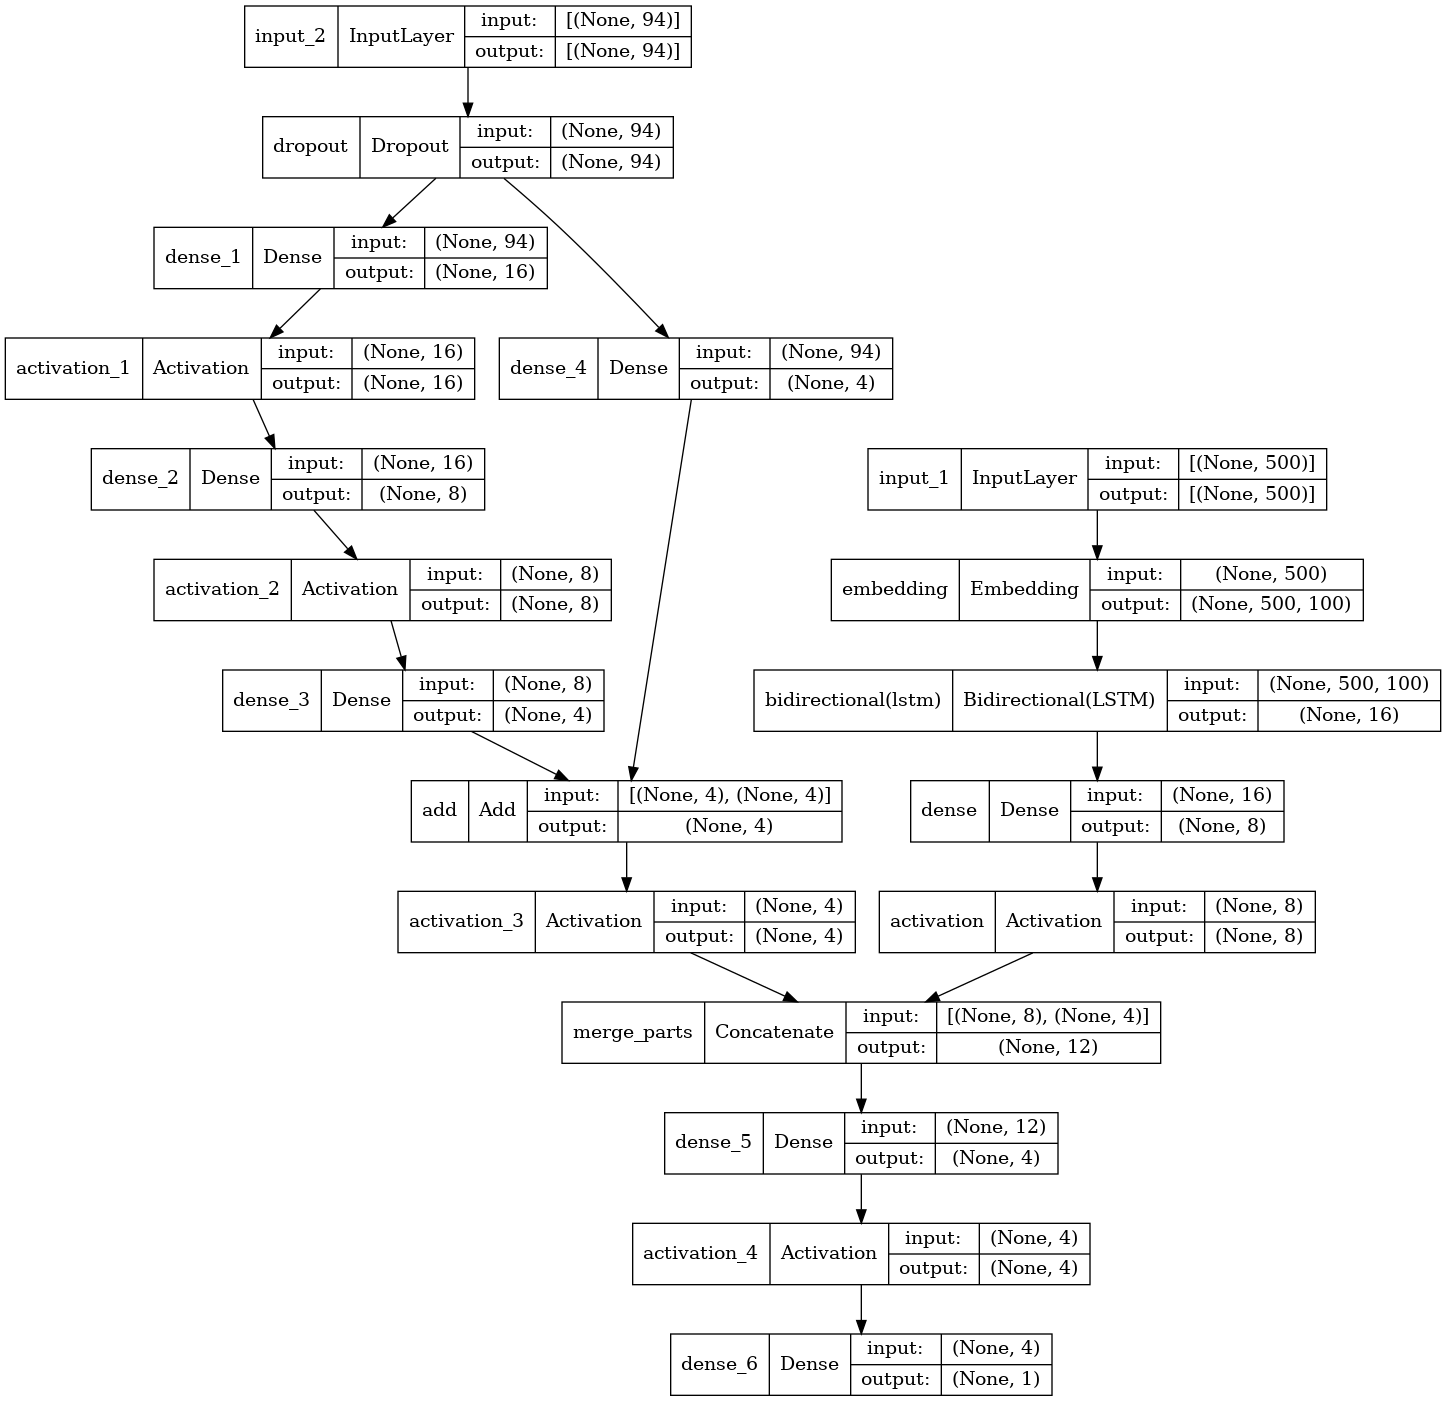
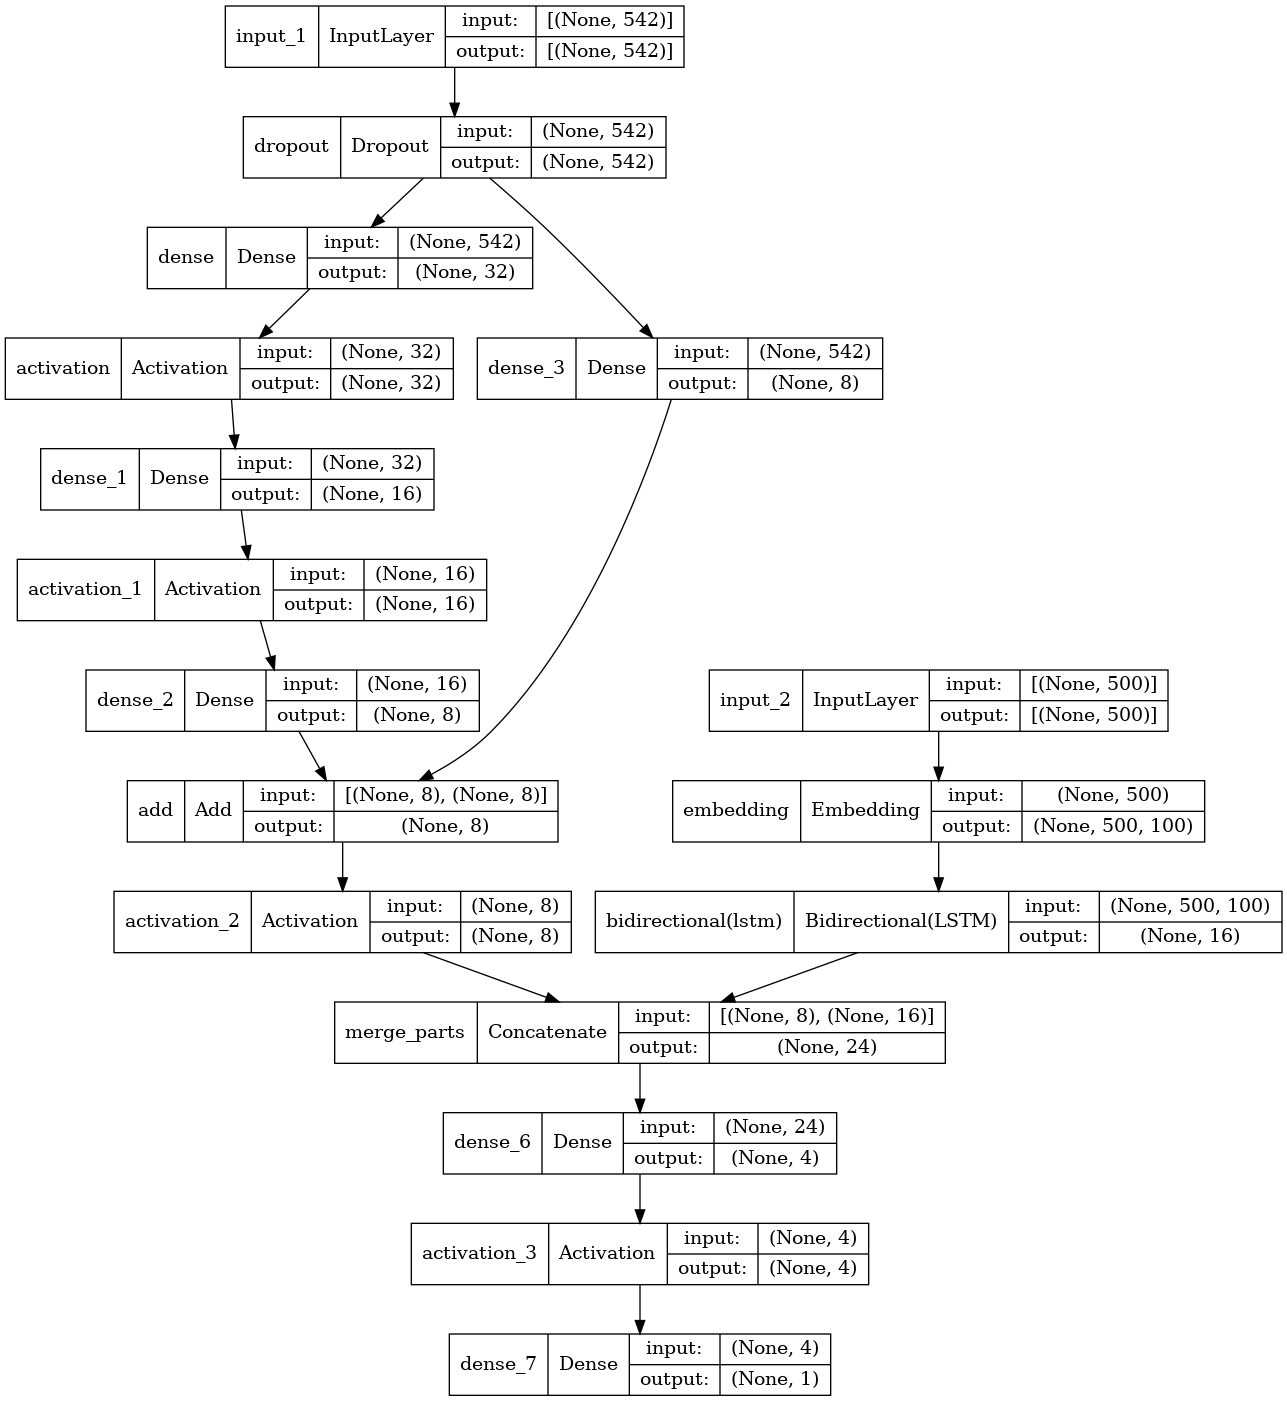
Added new model with pretrained option

diff --git a/src/classification/models.py b/src/classification/models.py
@@ -14,12 +14,48 @@ def createModel(vocab_size, embedding_dim, pretrained_weights_for_embedding):
   model.add(Embedding(input_dim=vocab_size,
                       output_dim=embedding_dim,
                       weights=[pretrained_weights_for_embedding]))
-  model.add(Dropout(0))
   model.add(LSTM(HIDDEN_UNITS_LSTM))
   model.add(Dense(1, activation='sigmoid'))
   return model
 
+def createResNetModel(freq_vector_size, layers):
+    initializer = keras.initializers.GlorotNormal()
+
+    def regression_identity_block(res_part, activation,):
+          res_shortcut = res_part
+
+          ri_block = Dense(units = 32 , kernel_initializer=initializer, use_bias=True, bias_initializer='zeros')(res_part)
+          #ri_block  = BatchNormalization()(ri_block)
+          ri_block = Activation(activation=activation)(ri_block)
+
+          ri_block = Dense(units = 16, kernel_initializer=initializer, use_bias=True, bias_initializer='zeros')(ri_block)
+          #ri_block  = BatchNormalization()(ri_block)
+          ri_block = Activation(activation=activation)(ri_block)
+
+          ri_block = Dense(8, kernel_initializer=initializer, use_bias=True, bias_initializer='zeros')(ri_block)
+
+          ri_jump   = Dense(8, kernel_initializer=initializer, use_bias=True, bias_initializer='zeros')(res_shortcut)
+
+          ri_block = Add()([ri_block, ri_jump])
+          #ri_block  = BatchNormalization()(ri_block)
+          ri_block = Activation(activation=activation)(ri_block)
+          return ri_block
+
+    model_input = Input(shape=(freq_vector_size))
+    res_part = Dropout(DROPOUT_RATE)(model_input)
+
+    for i in range(0, layers):
+        res_part = regression_identity_block(res_part, RESIDUAL_ACTIVATION_TYPE)
+
+    output = Dense(1, activation='sigmoid')(res_part)
+
+    model = Model(inputs=model_input, outputs=output)
+    model = createOptimizer(model, LEARNING_RATE)
+
+    return model, model_input, output
+
 def createBidirectionalLSTMModel(seq_lenght, vocab_size, embedding_dim, pretrained_weights_for_embedding):
+    initializer = keras.initializers.GlorotNormal()
 
     model_input = Input(shape=(seq_lenght))
     output = Embedding(input_dim=vocab_size,
@@ -27,14 +63,15 @@ def createBidirectionalLSTMModel(seq_lenght, vocab_size, embedding_dim, pretrain
                         input_length=seq_lenght,
                         weights=[pretrained_weights_for_embedding])(model_input)
     
-    output = Dropout(DROPOUT_RATE)(output)
-    output = Bidirectional(LSTM(units=HIDDEN_UNITS_LSTM, kernel_initializer="glorot_normal", dropout=DROPOUT_RATE, recurrent_dropout=RECURRENT_DROPOUT_RATE, return_sequences=True))(output)
-    output = Bidirectional(LSTM(units=int(HIDDEN_UNITS_LSTM/2), kernel_initializer="glorot_normal", dropout=DROPOUT_RATE, recurrent_dropout=RECURRENT_DROPOUT_RATE))(output)
+    output  = Bidirectional(LSTM(units=HIDDEN_UNITS_LSTM, kernel_initializer=initializer,
+                                     kernel_regularizer=regularizers.l2(L2_RATE),
+                                    dropout=DROPOUT_RATE, recurrent_dropout=RECURRENT_DROPOUT_RATE))(output)    
+    #output = Bidirectional(LSTM(units=int(HIDDEN_UNITS_LSTM/2), kernel_initializer="glorot_normal", dropout=DROPOUT_RATE, recurrent_dropout=RECURRENT_DROPOUT_RATE))(output)
     output = Dense(1, activation='sigmoid')(output)
 
     model = Model(inputs=model_input, outputs=output)
 
-    return model
+    return model, model_input, output
 
 def createBidirectionalLSTMModel_with_residual(seq_lenght, vocab_size, embedding_dim, layers, freq_vector_size, pretrained_weights_for_embedding):
     initializer = keras.initializers.GlorotNormal()
@@ -147,6 +184,34 @@ def createBidirectionalLSTMModel_with_residual_without_batch_normalization(seq_l
     model = Model(inputs=[lstm_input, res_input], outputs=output)
     
     return model
+
+def createPreTrainedResLSTMModel_with_residual(seq_lenght, vocab_size, embedding_dim, layers, freq_vector_size, pretrained_weights_for_embedding, root_dir):
+    initializer = keras.initializers.GlorotNormal()
+
+    #Load pretrained ResNet
+    resnet, res_inputs, res_outputs = createResNetModel(freq_vector_size=542, layers = RESIDUAL_LAYERS)
+    pretrained_resnet = keras.models.load_model(root_dir+'pretrained_models/ResNetmodel.h5')
+    resnet.set_weights(pretrained_resnet.get_weights())
+    for layer in resnet.layers:
+        layer.trainable = False
+    res_outputs = resnet.layers[-2].output
+
+    #Load pretrained LSTM
+    lstmnet, lstm_inputs, lstm_outputs = createBidirectionalLSTMModel(seq_lenght, vocab_size, embedding_dim, pretrained_weights_for_embedding)
+    pretrained_lstmnet = keras.models.load_model(root_dir+'pretrained_models/LSTMNetmodel.h5')
+    lstmnet.set_weights(pretrained_lstmnet.get_weights())
+    for layer in lstmnet.layers:
+        layer.trainable = False
+    lstm_outputs = lstmnet.layers[-2].output
+
+    output = concatenate([res_outputs,lstm_outputs], name = 'merge_parts')
+
+    output = Dense(units = 4, kernel_initializer=initializer, use_bias=True, bias_initializer='zeros')(output)
+    output = Activation(activation='relu')(output)
+
+    output = Dense(1, activation='sigmoid')(output)
+
+    model = Model(inputs=[res_inputs, lstm_inputs], outputs=output)
 
 def createOptimizer(model, learning_rate):
 

diff --git a/src/DNA2Vec-LSTM_BinaryHS.py b/src/DNA2Vec-LSTM_BinaryHS.py
@@ -5,7 +5,6 @@ import pandas as pd
 import seaborn as sns
 import matplotlib.pyplot as plt
 
-
 #SKlearn tools
 from sklearn.utils import shuffle
 from sklearn.utils import class_weight
@@ -33,9 +32,9 @@ except:
   run_dir = ""
   root_dir = ""
 
-hotspots = np.load(root_dir+"Data/kmers/hotspots-3k-list-500chunk_with_reversed.npy")
-freq_vectors = np.load(root_dir+"Data/kmers/freqvectors_hotspots-3k-polys-500chunk_with_reversed.npy")
-labels = np.load(root_dir+"Data/kmers/labels_hotspots-3k-list-500chunk_with_reversed.npy")
+hotspots = np.load(root_dir+"Data/kmers/hotspots-3k-list-500chunk.npy")
+freq_vectors = np.load(root_dir+"Data/kmers/freqvectors_hotspots-3k-polys-500chunk.npy")
+labels = np.load(root_dir+"Data/kmers/labels_hotspots-3k-list-500chunk.npy")
 
 print('Hotspots loaded, shape:', hotspots.shape)
 print('Frequency vector and polys loaded, shape:', freq_vectors.shape)
@@ -91,11 +90,15 @@ seq_size = len(hotspots[0])
 #######################################################################
 
 if(MODEL_SELECTION=='bidirectionalLSTM'):
-  model = createBidirectionalLSTMModel(seq_size, vocab_size, embedding_dim, pretrained_weights)
+  model, _, _ = createBidirectionalLSTMModel(seq_size, vocab_size, embedding_dim, pretrained_weights)
 elif(MODEL_SELECTION=='bidirectionalLSTM_with_residual'):
   model = createBidirectionalLSTMModel_with_residual(seq_size, vocab_size, embedding_dim, freq_vector_size=len(freq_vectors[0]), layers=RESIDUAL_LAYERS, pretrained_weights_for_embedding=pretrained_weights)
 elif(MODEL_SELECTION=='bidirectionalLSTM_with_residual_without_batch_normalization'):
   model = createBidirectionalLSTMModel_with_residual_without_batch_normalization(seq_size, vocab_size, embedding_dim, freq_vector_size=len(freq_vectors[0]), layers=RESIDUAL_LAYERS, pretrained_weights_for_embedding=pretrained_weights)
+elif(MODEL_SELECTION=='bidirectionalLSTM_with_residual_without_batch_normalization'):
+  model = createBidirectionalLSTMModel_with_residual_without_batch_normalization(seq_size, vocab_size, embedding_dim, freq_vector_size=len(freq_vectors[0]), layers=RESIDUAL_LAYERS, pretrained_weights_for_embedding=pretrained_weights)
+elif(MODEL_SELECTION=='Pretrained_bidirectionalLSTM_with_residual_without_batch_normalization'):
+  model = createPreTrainedResLSTMModel_with_residual(seq_size, vocab_size, embedding_dim, layers=RESIDUAL_LAYERS, freq_vector_size=len(freq_vectors[0]), pretrained_weights_for_embedding=pretrained_weights, root_dir=root_dir)
 elif(MODEL_SELECTION=='basicTestModel'):
   model = createModel(vocab_size, embedding_dim, pretrained_weights)
 
@@ -125,8 +128,6 @@ hs_test = hs_test.astype('float32')
 fv_train = fv_train.astype('float32')
 fv_test = fv_test.astype('float32')
 
-y_true_max = y_test
-
 if(MODEL_SELECTION=='bidirectionalLSTM'):
   history = model.fit(hs_train, y_train, validation_data=(hs_test, y_test), epochs=EPOCHS, batch_size=BATCH_SIZE, shuffle=True, verbose=2, callbacks=[tensorboard, reduce_lr, early_stopping])
 elif(MODEL_SELECTION=='bidirectionalLSTM_with_residual'):
@@ -140,13 +141,13 @@ elif(MODEL_SELECTION=='basicTestModel'):
 #Results###############################################################
 #######################################################################
 
-y_pred=np.argmax(model.predict([hs_test,fv_test]), axis=-1)
+y_pred=model.predict(hs_test)
 class_names = ["Hotspot", "No Hotspot"]
-con_mat = tf.math.confusion_matrix(labels=y_true_max, predictions=y_pred).numpy()
+con_mat = tf.math.confusion_matrix(labels=y_test, predictions=y_pred).numpy()
 con_mat_norm = np.around(con_mat.astype('float') / con_mat.sum(axis=1)[:, np.newaxis], decimals=2)
 con_mat_df = pd.DataFrame(con_mat_norm, index = class_names, columns = class_names)
 
-print('Accuracy Y_test: ', accuracy_score(y_true_max, y_pred))
+print('Accuracy Y_test: ', accuracy_score(y_test, y_pred))
 figure = plt.figure(figsize=(8, 8))
 sns.heatmap(con_mat_df, annot=True,cmap=plt.cm.Blues)
 plt.tight_layout()

diff --git a/src/classification/hyperparameters.py b/src/classification/hyperparameters.py
@@ -12,9 +12,10 @@ MODEL_NAMES = {
     0: 'basicTestModel',
     1: 'bidirectionalLSTM',
     2: 'bidirectionalLSTM_with_residual',
-    3: 'bidirectionalLSTM_with_residual_without_batch_normalization'
+    3: 'bidirectionalLSTM_with_residual_without_batch_normalization',
+    4: 'Pretrained_bidirectionalLSTM_with_residual_without_batch_normalization'
 }
-MODEL_SELECTION = MODEL_NAMES[3]
+MODEL_SELECTION = MODEL_NAMES[1]
 
 # NN hyperparameters
 EPOCHS = 300
